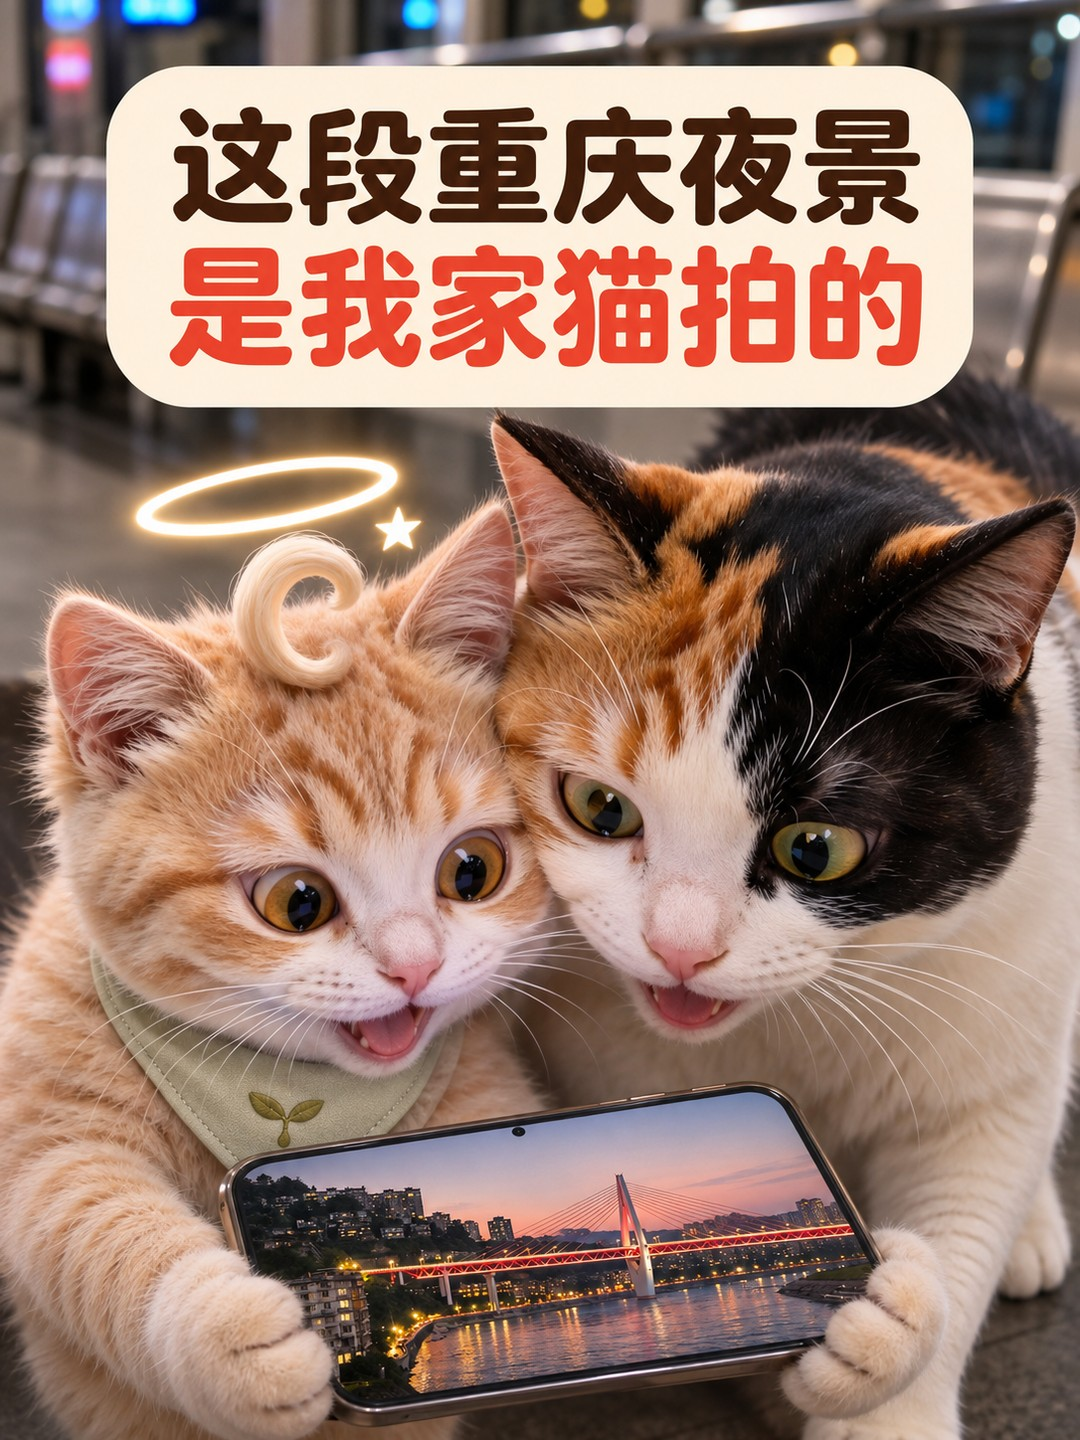
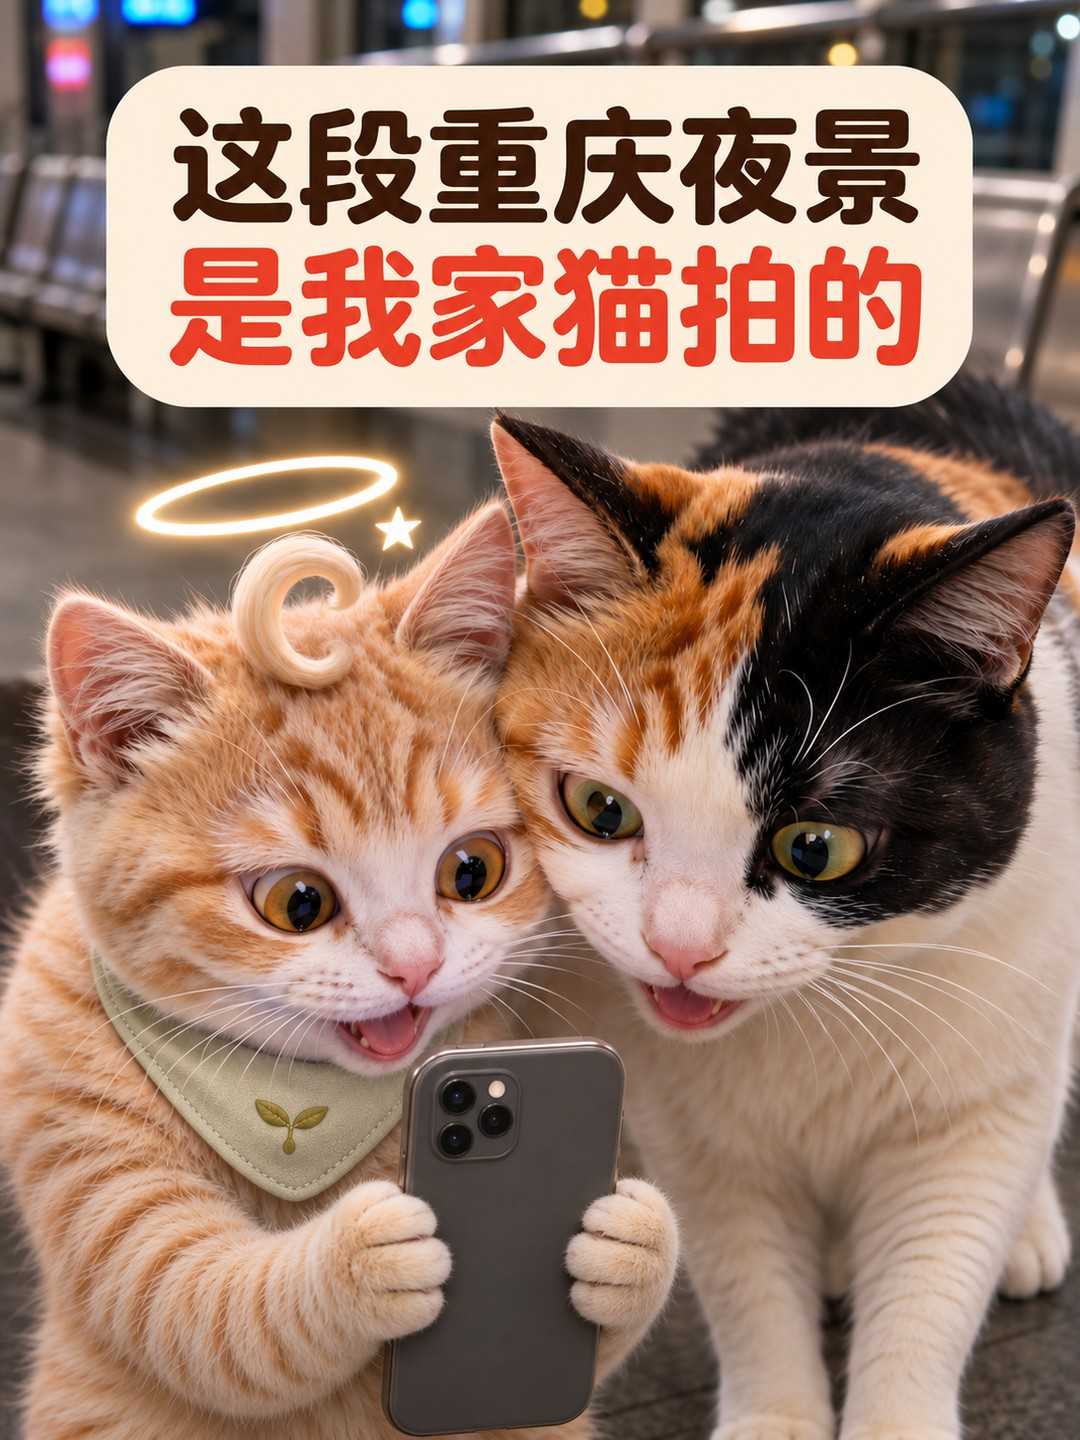
Fix EP5 Xiaohongshu phone viewing direction

diff --git a/projects/ai-video/publish/index.html b/projects/ai-video/publish/index.html
@@ -238,7 +238,7 @@ ul{padding-left:20px;margin:6px 0}li{margin:3px 0}footer{margin-top:40px;font-si
 “冰粉，你简直就是天才！”">复制</button></div><p class="d">改稿改到睡着的，举个爪🐾<br>有时候最好的镜头，是一不小心拍到的。<br>“冰粉，你简直就是天才！”</p></div>
 <div class="field"><div class="fh"><b>话题</b><button class="copy" type="button" data-copy="#AI萌宠 #重庆 #重庆轻轨 #猫咪">复制</button></div><p class="tg">#AI萌宠 #重庆 #重庆轻轨 #猫咪</p></div>
 <p class="note">车窗上的手机正拍着两只猫，黄字“猫的手机／自己坐上了轻轨”，一句话讲清看点。</p></section><section class="plat xiaohongshu"><h3>小红书</h3>
-<div class="covers"><a class="cov mid" href="covers/ep5_xiaohongshu_3x4.jpg?v=20261105-ep5-v2" download><img src="covers/ep5_xiaohongshu_3x4.jpg?v=20261105-ep5-v2" alt="小红书封面 ep5_xiaohongshu_3x4.jpg" loading="lazy"><span>3:4 · 下载</span></a></div>
+<div class="covers"><a class="cov mid" href="covers/ep5_xiaohongshu_3x4.jpg?v=20261105-ep5-xphone-r3" download><img src="covers/ep5_xiaohongshu_3x4.jpg?v=20261105-ep5-xphone-r3" alt="小红书封面 ep5_xiaohongshu_3x4.jpg" loading="lazy"><span>3:4 · 下载</span></a></div>
 <div class="field"><div class="fh"><b>标题</b><button class="copy" type="button" data-copy="这段重庆夜景，竟然是我家猫拍的">复制</button></div><p class="t">这段重庆夜景，竟然是我家猫拍的</p></div>
 <div class="field"><div class="fh"><b>正文</b><button class="copy" type="button" data-copy="做城市文宣的打工人，脚本被毙了好多版😮💨 周六改到半夜，倒头就睡。
 
